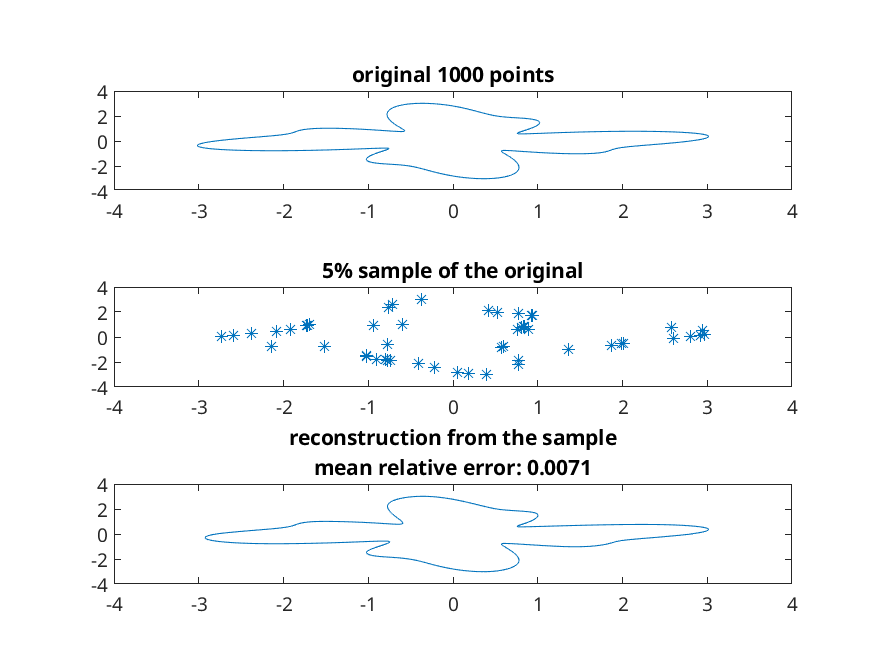
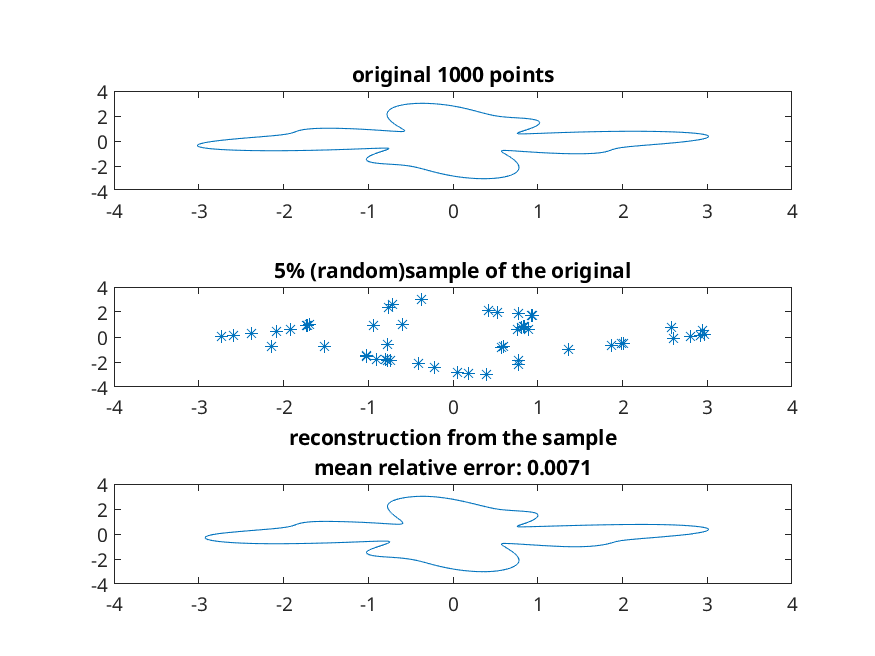
up

Changed region(s): [[0.3086, 0.3963, 0.7406, 0.4268]]

diff --git a/store/interpol/concepts_draft.html b/store/interpol/concepts_draft.html
@@ -6,7 +6,7 @@
 
 <meta name="viewport" content="width=device-width, initial-scale=1.0, user-scalable=yes">
 
-<meta name="dcterms.date" content="2026-03-19">
+<meta name="dcterms.date" content="2026-03-21">
 
 <title>interpolation/concepts_draft – eduhub</title>
 <style>
@@ -247,7 +247,7 @@ window.Quarto = {
     <div>
     <div class="quarto-title-meta-heading">Published</div>
     <div class="quarto-title-meta-contents">
-      <p class="date">March 19, 2026</p>
+      <p class="date">March 21, 2026</p>
     </div>
   </div>
   
@@ -1090,82 +1090,159 @@ t\in [a,b]
 <li>a Hermite problem <span class="math inline">t_1,t_2,f_1,f_2,f'_1,f'_2</span> is cubic spline problem for one-interval. it can be solved by a simple call of <code>spline</code>. (at least the evaluation part)</li>
 </ul>
 <div class="callout callout-style-simple callout-none no-icon callout-titled">
-<div class="callout-header d-flex align-content-center collapsed" data-bs-toggle="collapse" data-bs-target=".callout-25-contents" aria-controls="callout-25" aria-expanded="false" aria-label="Toggle callout">
+<div class="callout-header d-flex align-content-center collapsed" data-bs-toggle="collapse" data-bs-target=".callout-26-contents" aria-controls="callout-26" aria-expanded="false" aria-label="Toggle callout">
 <div class="callout-icon-container">
 <i class="callout-icon no-icon"></i>
 </div>
 <div class="callout-title-container flex-fill">
-<span class="screen-reader-only">None</span>a surprising application (of splines)
+<span class="screen-reader-only">None</span>application
 </div>
 <div class="callout-btn-toggle d-inline-block border-0 py-1 ps-1 pe-0 float-end"><i class="callout-toggle"></i></div>
 </div>
-<div id="callout-25" class="callout-25-contents callout-collapse collapse">
+<div id="callout-26" class="callout-26-contents callout-collapse collapse">
 <div class="callout-body-container callout-body">
 <ul>
-<li>what is happening here :o ? try to find out…</li>
-<li>(reconstruct 2d parametric curve from a small sample)</li>
+<li>reconstruct a rotated ellipse from a few regularly sampled points using splines</li>
 </ul>
-<p><img src="splineRECOVER.png" class="img-fluid" style="width:90.0%"></p>
+<p><img src="splineREC0.png" class="img-fluid" style="width:90.0%"></p>
 <div class="callout callout-style-simple callout-none no-icon callout-titled">
 <div class="callout-header d-flex align-content-center collapsed" data-bs-toggle="collapse" data-bs-target=".callout-24-contents" aria-controls="callout-24" aria-expanded="false" aria-label="Toggle callout">
 <div class="callout-icon-container">
 <i class="callout-icon no-icon"></i>
 </div>
 <div class="callout-title-container flex-fill">
-<span class="screen-reader-only">None</span>the code used
+<span class="screen-reader-only">None</span>code
 </div>
 <div class="callout-btn-toggle d-inline-block border-0 py-1 ps-1 pe-0 float-end"><i class="callout-toggle"></i></div>
 </div>
 <div id="callout-24" class="callout-24-contents callout-collapse collapse">
 <div class="callout-body-container callout-body">
 <div class="code-copy-outer-scaffold"><div class="sourceCode" id="cb7"><pre class="sourceCode matlab code-with-copy"><code class="sourceCode matlab"><span id="cb7-1"><a href="#cb7-1" aria-hidden="true" tabindex="-1"></a></span>
-<span id="cb7-2"><a href="#cb7-2" aria-hidden="true" tabindex="-1"></a><span class="va">clc</span><span class="op">;</span> <span class="va">clf</span><span class="op">;</span> <span class="va">clear</span><span class="op">;</span><span class="va">format</span><span class="op">;</span></span>
+<span id="cb7-2"><a href="#cb7-2" aria-hidden="true" tabindex="-1"></a><span class="va">clc</span><span class="op">;</span> <span class="va">clf</span><span class="op">;</span> <span class="va">clear</span><span class="op">;</span> <span class="va">format</span><span class="op">;</span></span>
 <span id="cb7-3"><a href="#cb7-3" aria-hidden="true" tabindex="-1"></a><span class="va">hold</span> <span class="va">on</span><span class="op">;</span></span>
 <span id="cb7-4"><a href="#cb7-4" aria-hidden="true" tabindex="-1"></a><span class="va">rng</span>(<span class="fl">22</span>)<span class="op">;</span></span>
 <span id="cb7-5"><a href="#cb7-5" aria-hidden="true" tabindex="-1"></a></span>
 <span id="cb7-6"><a href="#cb7-6" aria-hidden="true" tabindex="-1"></a><span class="co">% create the initial plot</span></span>
-<span id="cb7-7"><a href="#cb7-7" aria-hidden="true" tabindex="-1"></a><span class="co">% it'll be a circle + sin "noise"</span></span>
+<span id="cb7-7"><a href="#cb7-7" aria-hidden="true" tabindex="-1"></a><span class="co">% init: rotated ellipse</span></span>
 <span id="cb7-8"><a href="#cb7-8" aria-hidden="true" tabindex="-1"></a></span>
-<span id="cb7-9"><a href="#cb7-9" aria-hidden="true" tabindex="-1"></a><span class="va">N</span><span class="op">=</span><span class="fl">1000</span><span class="op">;</span></span>
-<span id="cb7-10"><a href="#cb7-10" aria-hidden="true" tabindex="-1"></a><span class="va">alpha</span><span class="op">=</span><span class="va">linspace</span>(<span class="fl">0</span><span class="op">,</span><span class="fl">2</span><span class="op">*</span><span class="va">pi</span><span class="op">,</span><span class="va">N</span>)<span class="op">;</span></span>
-<span id="cb7-11"><a href="#cb7-11" aria-hidden="true" tabindex="-1"></a><span class="va">r</span><span class="op">=</span><span class="fl">2</span><span class="op">+</span><span class="fl">0.4</span><span class="op">*</span><span class="va">sin</span>(<span class="fl">8</span><span class="op">*</span><span class="va">alpha</span>)<span class="op">+</span><span class="fl">0.8</span><span class="op">*</span><span class="va">cos</span>(<span class="fl">4</span><span class="op">*</span><span class="va">alpha</span>)<span class="op">;</span></span>
-<span id="cb7-12"><a href="#cb7-12" aria-hidden="true" tabindex="-1"></a><span class="va">x</span><span class="op">=</span><span class="va">r</span><span class="op">.*</span><span class="va">cos</span>(<span class="va">alpha</span>)<span class="op">;</span></span>
-<span id="cb7-13"><a href="#cb7-13" aria-hidden="true" tabindex="-1"></a><span class="va">y</span><span class="op">=</span><span class="va">r</span><span class="op">.*</span><span class="va">sin</span>(<span class="va">alpha</span>)<span class="op">;</span></span>
-<span id="cb7-14"><a href="#cb7-14" aria-hidden="true" tabindex="-1"></a><span class="va">subplot</span>(<span class="fl">3</span><span class="op">,</span><span class="fl">1</span><span class="op">,</span><span class="fl">1</span>)<span class="op">;</span></span>
-<span id="cb7-15"><a href="#cb7-15" aria-hidden="true" tabindex="-1"></a><span class="va">plot</span>(<span class="va">x</span><span class="op">,</span><span class="va">y</span>)</span>
-<span id="cb7-16"><a href="#cb7-16" aria-hidden="true" tabindex="-1"></a><span class="va">title</span>(<span class="va">sprintf</span>(<span class="st">"original %d points"</span><span class="op">,</span><span class="va">N</span>))</span>
-<span id="cb7-17"><a href="#cb7-17" aria-hidden="true" tabindex="-1"></a><span class="va">axis</span>([<span class="op">-</span><span class="fl">4</span><span class="op">,</span><span class="fl">4</span><span class="op">,-</span><span class="fl">4</span><span class="op">,</span><span class="fl">4</span>])<span class="op">;</span></span>
-<span id="cb7-18"><a href="#cb7-18" aria-hidden="true" tabindex="-1"></a><span class="va">percent</span><span class="op">=</span><span class="fl">5</span><span class="op">;</span></span>
-<span id="cb7-19"><a href="#cb7-19" aria-hidden="true" tabindex="-1"></a><span class="va">part</span><span class="op">=</span>[<span class="fl">1</span><span class="op">,</span><span class="va">datasample</span>(<span class="fl">2</span><span class="op">:</span><span class="va">N</span><span class="op">,</span><span class="va">floor</span>(<span class="va">percent</span><span class="op">/</span><span class="fl">100</span><span class="op">*</span><span class="va">N</span>)<span class="op">,</span><span class="st">"Replace"</span><span class="op">,</span><span class="va">false</span>)]<span class="op">;</span></span>
-<span id="cb7-20"><a href="#cb7-20" aria-hidden="true" tabindex="-1"></a><span class="va">alpha0</span><span class="op">=</span><span class="va">alpha</span>(<span class="va">part</span>)<span class="op">;</span></span>
-<span id="cb7-21"><a href="#cb7-21" aria-hidden="true" tabindex="-1"></a><span class="va">r0</span><span class="op">=</span><span class="va">r</span>(<span class="va">part</span>)<span class="op">;</span></span>
-<span id="cb7-22"><a href="#cb7-22" aria-hidden="true" tabindex="-1"></a><span class="va">x0</span><span class="op">=</span><span class="va">r0</span><span class="op">.*</span><span class="va">cos</span>(<span class="va">alpha0</span>)<span class="op">;</span></span>
-<span id="cb7-23"><a href="#cb7-23" aria-hidden="true" tabindex="-1"></a><span class="va">y0</span><span class="op">=</span><span class="va">r0</span><span class="op">.*</span><span class="va">sin</span>(<span class="va">alpha0</span>)<span class="op">;</span></span>
-<span id="cb7-24"><a href="#cb7-24" aria-hidden="true" tabindex="-1"></a><span class="va">subplot</span>(<span class="fl">3</span><span class="op">,</span><span class="fl">1</span><span class="op">,</span><span class="fl">2</span>)<span class="op">;</span></span>
-<span id="cb7-25"><a href="#cb7-25" aria-hidden="true" tabindex="-1"></a><span class="va">plot</span>(<span class="va">x0</span><span class="op">,</span><span class="va">y0</span><span class="op">,</span><span class="ss">'*'</span>)</span>
-<span id="cb7-26"><a href="#cb7-26" aria-hidden="true" tabindex="-1"></a><span class="va">title</span>(<span class="va">sprintf</span>(<span class="st">"%d%% sample of the original"</span><span class="op">,</span><span class="va">percent</span>))</span>
-<span id="cb7-27"><a href="#cb7-27" aria-hidden="true" tabindex="-1"></a><span class="va">axis</span>([<span class="op">-</span><span class="fl">4</span><span class="op">,</span><span class="fl">4</span><span class="op">,-</span><span class="fl">4</span><span class="op">,</span><span class="fl">4</span>])<span class="op">;</span></span>
-<span id="cb7-28"><a href="#cb7-28" aria-hidden="true" tabindex="-1"></a></span>
-<span id="cb7-29"><a href="#cb7-29" aria-hidden="true" tabindex="-1"></a><span class="va">x1</span><span class="op">=</span><span class="va">spline</span>(<span class="va">alpha0</span><span class="op">,</span><span class="va">x0</span><span class="op">,</span><span class="va">alpha</span>)<span class="op">;</span></span>
-<span id="cb7-30"><a href="#cb7-30" aria-hidden="true" tabindex="-1"></a><span class="va">y1</span><span class="op">=</span><span class="va">spline</span>(<span class="va">alpha0</span><span class="op">,</span><span class="va">y0</span><span class="op">,</span><span class="va">alpha</span>)<span class="op">;</span></span>
-<span id="cb7-31"><a href="#cb7-31" aria-hidden="true" tabindex="-1"></a><span class="va">subplot</span>(<span class="fl">3</span><span class="op">,</span><span class="fl">1</span><span class="op">,</span><span class="fl">3</span>)<span class="op">;</span></span>
-<span id="cb7-32"><a href="#cb7-32" aria-hidden="true" tabindex="-1"></a><span class="va">plot</span>(<span class="va">x1</span><span class="op">,</span><span class="va">y1</span>)</span>
-<span id="cb7-33"><a href="#cb7-33" aria-hidden="true" tabindex="-1"></a><span class="va">av_rel_err</span><span class="op">=</span><span class="va">sum</span>(<span class="va">sqrt</span>((<span class="va">x</span><span class="op">-</span><span class="va">x1</span>)<span class="op">.^</span><span class="fl">2</span><span class="op">+</span>(<span class="va">y</span><span class="op">-</span><span class="va">y1</span>)<span class="op">.^</span><span class="fl">2</span>)<span class="op">./</span><span class="va">sqrt</span>(<span class="va">x</span><span class="op">.^</span><span class="fl">2</span><span class="op">+</span><span class="va">y</span><span class="op">.^</span><span class="fl">2</span>))<span class="op">/</span><span class="va">N</span><span class="op">;</span></span>
-<span id="cb7-34"><a href="#cb7-34" aria-hidden="true" tabindex="-1"></a><span class="va">tit</span><span class="op">=</span><span class="st">"reconstruction from the sample"</span><span class="op">+...</span></span>
-<span id="cb7-35"><a href="#cb7-35" aria-hidden="true" tabindex="-1"></a>  <span class="va">sprintf</span>(<span class="st">"\nmean relative error: %.4f"</span><span class="op">,</span><span class="va">av_rel_err</span>)<span class="op">;</span></span>
-<span id="cb7-36"><a href="#cb7-36" aria-hidden="true" tabindex="-1"></a><span class="va">title</span>(<span class="va">tit</span>)<span class="op">;</span></span>
-<span id="cb7-37"><a href="#cb7-37" aria-hidden="true" tabindex="-1"></a><span class="va">axis</span>([<span class="op">-</span><span class="fl">4</span><span class="op">,</span><span class="fl">4</span><span class="op">,-</span><span class="fl">4</span><span class="op">,</span><span class="fl">4</span>])<span class="op">;</span></span>
+<span id="cb7-9"><a href="#cb7-9" aria-hidden="true" tabindex="-1"></a></span>
+<span id="cb7-10"><a href="#cb7-10" aria-hidden="true" tabindex="-1"></a><span class="va">fi</span><span class="op">=</span><span class="va">pi</span><span class="op">/</span><span class="fl">6</span><span class="op">;</span> <span class="co">% rot angle</span></span>
+<span id="cb7-11"><a href="#cb7-11" aria-hidden="true" tabindex="-1"></a><span class="va">zfun</span><span class="op">=@</span>(<span class="va">a</span>) (<span class="va">cos</span>(<span class="va">fi</span>)<span class="op">+</span><span class="fl">1i</span><span class="op">*</span><span class="va">sin</span>(<span class="va">fi</span>))<span class="op">*</span>(<span class="fl">4</span><span class="op">*</span><span class="va">cos</span>(<span class="va">a</span>)<span class="op">+</span><span class="fl">1i</span><span class="op">*</span><span class="va">sin</span>(<span class="va">a</span>))<span class="op">;</span></span>
+<span id="cb7-12"><a href="#cb7-12" aria-hidden="true" tabindex="-1"></a><span class="va">ax0</span><span class="op">=</span>[<span class="op">-</span><span class="fl">5</span><span class="op">,</span><span class="fl">5</span><span class="op">,-</span><span class="fl">3</span><span class="op">,</span><span class="fl">3</span>]<span class="op">;</span></span>
+<span id="cb7-13"><a href="#cb7-13" aria-hidden="true" tabindex="-1"></a><span class="va">N0</span><span class="op">=</span><span class="fl">5</span><span class="op">;</span></span>
+<span id="cb7-14"><a href="#cb7-14" aria-hidden="true" tabindex="-1"></a></span>
+<span id="cb7-15"><a href="#cb7-15" aria-hidden="true" tabindex="-1"></a></span>
+<span id="cb7-16"><a href="#cb7-16" aria-hidden="true" tabindex="-1"></a><span class="va">N</span><span class="op">=</span><span class="fl">100</span><span class="op">;</span></span>
+<span id="cb7-17"><a href="#cb7-17" aria-hidden="true" tabindex="-1"></a><span class="va">alpha</span><span class="op">=</span><span class="va">linspace</span>(<span class="fl">0</span><span class="op">,</span><span class="fl">2</span><span class="op">*</span><span class="va">pi</span><span class="op">,</span><span class="va">N</span>)<span class="op">';</span></span>
+<span id="cb7-18"><a href="#cb7-18" aria-hidden="true" tabindex="-1"></a><span class="va">z</span><span class="op">=</span><span class="va">zfun</span>(<span class="va">alpha</span>)<span class="op">;</span></span>
+<span id="cb7-19"><a href="#cb7-19" aria-hidden="true" tabindex="-1"></a><span class="va">x</span><span class="op">=</span><span class="va">real</span>(<span class="va">z</span>)<span class="op">;</span></span>
+<span id="cb7-20"><a href="#cb7-20" aria-hidden="true" tabindex="-1"></a><span class="va">y</span><span class="op">=</span><span class="va">imag</span>(<span class="va">z</span>)<span class="op">;</span></span>
+<span id="cb7-21"><a href="#cb7-21" aria-hidden="true" tabindex="-1"></a></span>
+<span id="cb7-22"><a href="#cb7-22" aria-hidden="true" tabindex="-1"></a><span class="va">subplot</span>(<span class="fl">3</span><span class="op">,</span><span class="fl">1</span><span class="op">,</span><span class="fl">1</span>)<span class="op">;</span></span>
+<span id="cb7-23"><a href="#cb7-23" aria-hidden="true" tabindex="-1"></a><span class="va">plot</span>(<span class="va">x</span><span class="op">,</span><span class="va">y</span>)</span>
+<span id="cb7-24"><a href="#cb7-24" aria-hidden="true" tabindex="-1"></a><span class="va">title</span>(<span class="va">sprintf</span>(<span class="st">"original %d points"</span><span class="op">,</span><span class="va">N</span>))</span>
+<span id="cb7-25"><a href="#cb7-25" aria-hidden="true" tabindex="-1"></a></span>
+<span id="cb7-26"><a href="#cb7-26" aria-hidden="true" tabindex="-1"></a><span class="va">axis</span>(<span class="va">ax0</span>)<span class="op">;</span></span>
+<span id="cb7-27"><a href="#cb7-27" aria-hidden="true" tabindex="-1"></a><span class="va">axis</span> <span class="va">equal</span><span class="op">;</span></span>
+<span id="cb7-28"><a href="#cb7-28" aria-hidden="true" tabindex="-1"></a><span class="va">alpha0</span><span class="op">=</span><span class="va">linspace</span>(<span class="fl">0</span><span class="op">,</span><span class="fl">2</span><span class="op">*</span><span class="va">pi</span><span class="op">,</span><span class="va">N0</span><span class="op">+</span><span class="fl">1</span>)<span class="op">;</span></span>
+<span id="cb7-29"><a href="#cb7-29" aria-hidden="true" tabindex="-1"></a><span class="va">z0</span><span class="op">=</span><span class="va">zfun</span>(<span class="va">alpha0</span>)<span class="op">;</span></span>
+<span id="cb7-30"><a href="#cb7-30" aria-hidden="true" tabindex="-1"></a><span class="va">x0</span><span class="op">=</span><span class="va">real</span>(<span class="va">z0</span>)<span class="op">;</span></span>
+<span id="cb7-31"><a href="#cb7-31" aria-hidden="true" tabindex="-1"></a><span class="va">y0</span><span class="op">=</span><span class="va">imag</span>(<span class="va">z0</span>)<span class="op">;</span></span>
+<span id="cb7-32"><a href="#cb7-32" aria-hidden="true" tabindex="-1"></a></span>
+<span id="cb7-33"><a href="#cb7-33" aria-hidden="true" tabindex="-1"></a><span class="va">subplot</span>(<span class="fl">3</span><span class="op">,</span><span class="fl">1</span><span class="op">,</span><span class="fl">2</span>)<span class="op">;</span></span>
+<span id="cb7-34"><a href="#cb7-34" aria-hidden="true" tabindex="-1"></a><span class="va">plot</span>(<span class="va">x0</span><span class="op">,</span><span class="va">y0</span><span class="op">,</span><span class="ss">'*'</span>)</span>
+<span id="cb7-35"><a href="#cb7-35" aria-hidden="true" tabindex="-1"></a><span class="va">title</span>(<span class="va">sprintf</span>(<span class="st">"%d points from the original"</span><span class="op">,</span><span class="va">N0</span>))</span>
+<span id="cb7-36"><a href="#cb7-36" aria-hidden="true" tabindex="-1"></a><span class="va">axis</span>(<span class="va">ax0</span>)<span class="op">;</span></span>
+<span id="cb7-37"><a href="#cb7-37" aria-hidden="true" tabindex="-1"></a><span class="va">axis</span> <span class="va">equal</span><span class="op">;</span></span>
 <span id="cb7-38"><a href="#cb7-38" aria-hidden="true" tabindex="-1"></a></span>
-<span id="cb7-39"><a href="#cb7-39" aria-hidden="true" tabindex="-1"></a><span class="va">saveas</span>(<span class="va">gca</span>()<span class="op">,</span><span class="st">"splineRECOVER.png"</span><span class="op">,</span><span class="st">"png"</span>)<span class="op">;</span></span>
-<span id="cb7-40"><a href="#cb7-40" aria-hidden="true" tabindex="-1"></a></span>
-<span id="cb7-41"><a href="#cb7-41" aria-hidden="true" tabindex="-1"></a></span>
-<span id="cb7-42"><a href="#cb7-42" aria-hidden="true" tabindex="-1"></a></span>
-<span id="cb7-43"><a href="#cb7-43" aria-hidden="true" tabindex="-1"></a></span>
-<span id="cb7-44"><a href="#cb7-44" aria-hidden="true" tabindex="-1"></a></span>
-<span id="cb7-45"><a href="#cb7-45" aria-hidden="true" tabindex="-1"></a></span>
-<span id="cb7-46"><a href="#cb7-46" aria-hidden="true" tabindex="-1"></a></span>
-<span id="cb7-47"><a href="#cb7-47" aria-hidden="true" tabindex="-1"></a><span class="va">hold</span> <span class="va">off</span><span class="op">;</span></span>
-<span id="cb7-48"><a href="#cb7-48" aria-hidden="true" tabindex="-1"></a></span></code></pre></div><button title="Copy to Clipboard" class="code-copy-button"><i class="bi"></i></button></div>
+<span id="cb7-39"><a href="#cb7-39" aria-hidden="true" tabindex="-1"></a><span class="va">x1</span><span class="op">=</span><span class="va">spline</span>(<span class="va">alpha0</span><span class="op">,</span><span class="va">x0</span><span class="op">,</span><span class="va">alpha</span>)<span class="op">;</span></span>
+<span id="cb7-40"><a href="#cb7-40" aria-hidden="true" tabindex="-1"></a><span class="va">y1</span><span class="op">=</span><span class="va">spline</span>(<span class="va">alpha0</span><span class="op">,</span><span class="va">y0</span><span class="op">,</span><span class="va">alpha</span>)<span class="op">;</span></span>
+<span id="cb7-41"><a href="#cb7-41" aria-hidden="true" tabindex="-1"></a><span class="va">subplot</span>(<span class="fl">3</span><span class="op">,</span><span class="fl">1</span><span class="op">,</span><span class="fl">3</span>)<span class="op">;</span></span>
+<span id="cb7-42"><a href="#cb7-42" aria-hidden="true" tabindex="-1"></a><span class="va">plot</span>(<span class="va">x1</span><span class="op">,</span><span class="va">y1</span>)</span>
+<span id="cb7-43"><a href="#cb7-43" aria-hidden="true" tabindex="-1"></a><span class="va">av_rel_err</span><span class="op">=</span><span class="va">sum</span>(<span class="va">sqrt</span>((<span class="va">x</span><span class="op">-</span><span class="va">x1</span>)<span class="op">.^</span><span class="fl">2</span><span class="op">+</span>(<span class="va">y</span><span class="op">-</span><span class="va">y1</span>)<span class="op">.^</span><span class="fl">2</span>)<span class="op">./</span><span class="va">sqrt</span>(<span class="va">x</span><span class="op">.^</span><span class="fl">2</span><span class="op">+</span><span class="va">y</span><span class="op">.^</span><span class="fl">2</span>))<span class="op">/</span><span class="va">N</span><span class="op">;</span></span>
+<span id="cb7-44"><a href="#cb7-44" aria-hidden="true" tabindex="-1"></a><span class="va">tit</span><span class="op">=</span><span class="st">"reconstruction from the sample"</span><span class="op">+...</span></span>
+<span id="cb7-45"><a href="#cb7-45" aria-hidden="true" tabindex="-1"></a>  <span class="va">sprintf</span>(<span class="st">"\nmean relative error: %.4f"</span><span class="op">,</span><span class="va">av_rel_err</span>)<span class="op">;</span></span>
+<span id="cb7-46"><a href="#cb7-46" aria-hidden="true" tabindex="-1"></a><span class="va">title</span>(<span class="va">tit</span>)<span class="op">;</span></span>
+<span id="cb7-47"><a href="#cb7-47" aria-hidden="true" tabindex="-1"></a><span class="va">axis</span>(<span class="va">ax0</span>)<span class="op">;</span></span>
+<span id="cb7-48"><a href="#cb7-48" aria-hidden="true" tabindex="-1"></a><span class="va">axis</span> <span class="va">equal</span><span class="op">;</span></span>
+<span id="cb7-49"><a href="#cb7-49" aria-hidden="true" tabindex="-1"></a></span>
+<span id="cb7-50"><a href="#cb7-50" aria-hidden="true" tabindex="-1"></a><span class="va">saveas</span>(<span class="va">gca</span>()<span class="op">,</span><span class="st">"splineREC0.png"</span><span class="op">,</span><span class="st">"png"</span>)<span class="op">;</span></span>
+<span id="cb7-51"><a href="#cb7-51" aria-hidden="true" tabindex="-1"></a></span>
+<span id="cb7-52"><a href="#cb7-52" aria-hidden="true" tabindex="-1"></a></span>
+<span id="cb7-53"><a href="#cb7-53" aria-hidden="true" tabindex="-1"></a></span>
+<span id="cb7-54"><a href="#cb7-54" aria-hidden="true" tabindex="-1"></a></span>
+<span id="cb7-55"><a href="#cb7-55" aria-hidden="true" tabindex="-1"></a></span>
+<span id="cb7-56"><a href="#cb7-56" aria-hidden="true" tabindex="-1"></a></span>
+<span id="cb7-57"><a href="#cb7-57" aria-hidden="true" tabindex="-1"></a></span>
+<span id="cb7-58"><a href="#cb7-58" aria-hidden="true" tabindex="-1"></a><span class="va">hold</span> <span class="va">off</span><span class="op">;</span></span>
+<span id="cb7-59"><a href="#cb7-59" aria-hidden="true" tabindex="-1"></a></span></code></pre></div><button title="Copy to Clipboard" class="code-copy-button"><i class="bi"></i></button></div>
+</div>
+</div>
+</div>
+<ul>
+<li>reconstruct another parametric curve from randomly sampled points using splines</li>
+</ul>
+<p><img src="splineREC.png" class="img-fluid" style="width:90.0%"></p>
+<div class="callout callout-style-simple callout-none no-icon callout-titled">
+<div class="callout-header d-flex align-content-center collapsed" data-bs-toggle="collapse" data-bs-target=".callout-25-contents" aria-controls="callout-25" aria-expanded="false" aria-label="Toggle callout">
+<div class="callout-icon-container">
+<i class="callout-icon no-icon"></i>
+</div>
+<div class="callout-title-container flex-fill">
+<span class="screen-reader-only">None</span>code
+</div>
+<div class="callout-btn-toggle d-inline-block border-0 py-1 ps-1 pe-0 float-end"><i class="callout-toggle"></i></div>
+</div>
+<div id="callout-25" class="callout-25-contents callout-collapse collapse">
+<div class="callout-body-container callout-body">
+<div class="code-copy-outer-scaffold"><div class="sourceCode" id="cb8"><pre class="sourceCode matlab code-with-copy"><code class="sourceCode matlab"><span id="cb8-1"><a href="#cb8-1" aria-hidden="true" tabindex="-1"></a></span>
+<span id="cb8-2"><a href="#cb8-2" aria-hidden="true" tabindex="-1"></a><span class="va">clc</span><span class="op">;</span> <span class="va">clf</span><span class="op">;</span> <span class="va">clear</span><span class="op">;</span><span class="va">format</span><span class="op">;</span></span>
+<span id="cb8-3"><a href="#cb8-3" aria-hidden="true" tabindex="-1"></a><span class="va">hold</span> <span class="va">on</span><span class="op">;</span></span>
+<span id="cb8-4"><a href="#cb8-4" aria-hidden="true" tabindex="-1"></a><span class="va">rng</span>(<span class="fl">22</span>)<span class="op">;</span></span>
+<span id="cb8-5"><a href="#cb8-5" aria-hidden="true" tabindex="-1"></a></span>
+<span id="cb8-6"><a href="#cb8-6" aria-hidden="true" tabindex="-1"></a><span class="co">% create the initial plot</span></span>
+<span id="cb8-7"><a href="#cb8-7" aria-hidden="true" tabindex="-1"></a><span class="co">% it'll be a circle + sin/cos "noise"</span></span>
+<span id="cb8-8"><a href="#cb8-8" aria-hidden="true" tabindex="-1"></a></span>
+<span id="cb8-9"><a href="#cb8-9" aria-hidden="true" tabindex="-1"></a><span class="va">N</span><span class="op">=</span><span class="fl">1000</span><span class="op">;</span></span>
+<span id="cb8-10"><a href="#cb8-10" aria-hidden="true" tabindex="-1"></a><span class="va">alpha</span><span class="op">=</span><span class="va">linspace</span>(<span class="fl">0</span><span class="op">,</span><span class="fl">2</span><span class="op">*</span><span class="va">pi</span><span class="op">,</span><span class="va">N</span>)<span class="op">;</span></span>
+<span id="cb8-11"><a href="#cb8-11" aria-hidden="true" tabindex="-1"></a><span class="va">r</span><span class="op">=</span><span class="fl">2</span><span class="op">+</span><span class="fl">0.4</span><span class="op">*</span><span class="va">sin</span>(<span class="fl">8</span><span class="op">*</span><span class="va">alpha</span>)<span class="op">+</span><span class="fl">0.8</span><span class="op">*</span><span class="va">cos</span>(<span class="fl">4</span><span class="op">*</span><span class="va">alpha</span>)<span class="op">;</span></span>
+<span id="cb8-12"><a href="#cb8-12" aria-hidden="true" tabindex="-1"></a><span class="va">x</span><span class="op">=</span><span class="va">r</span><span class="op">.*</span><span class="va">cos</span>(<span class="va">alpha</span>)<span class="op">;</span></span>
+<span id="cb8-13"><a href="#cb8-13" aria-hidden="true" tabindex="-1"></a><span class="va">y</span><span class="op">=</span><span class="va">r</span><span class="op">.*</span><span class="va">sin</span>(<span class="va">alpha</span>)<span class="op">;</span></span>
+<span id="cb8-14"><a href="#cb8-14" aria-hidden="true" tabindex="-1"></a><span class="va">subplot</span>(<span class="fl">3</span><span class="op">,</span><span class="fl">1</span><span class="op">,</span><span class="fl">1</span>)<span class="op">;</span></span>
+<span id="cb8-15"><a href="#cb8-15" aria-hidden="true" tabindex="-1"></a><span class="va">plot</span>(<span class="va">x</span><span class="op">,</span><span class="va">y</span>)</span>
+<span id="cb8-16"><a href="#cb8-16" aria-hidden="true" tabindex="-1"></a><span class="va">title</span>(<span class="va">sprintf</span>(<span class="st">"original %d points"</span><span class="op">,</span><span class="va">N</span>))</span>
+<span id="cb8-17"><a href="#cb8-17" aria-hidden="true" tabindex="-1"></a><span class="va">axis</span>([<span class="op">-</span><span class="fl">4</span><span class="op">,</span><span class="fl">4</span><span class="op">,-</span><span class="fl">4</span><span class="op">,</span><span class="fl">4</span>])<span class="op">;</span></span>
+<span id="cb8-18"><a href="#cb8-18" aria-hidden="true" tabindex="-1"></a><span class="va">percent</span><span class="op">=</span><span class="fl">5</span><span class="op">;</span></span>
+<span id="cb8-19"><a href="#cb8-19" aria-hidden="true" tabindex="-1"></a><span class="va">part</span><span class="op">=</span>[<span class="fl">1</span><span class="op">,</span><span class="va">datasample</span>(<span class="fl">2</span><span class="op">:</span><span class="va">N</span><span class="op">,</span><span class="va">floor</span>(<span class="va">percent</span><span class="op">/</span><span class="fl">100</span><span class="op">*</span><span class="va">N</span>)<span class="op">,</span><span class="st">"Replace"</span><span class="op">,</span><span class="va">false</span>)]<span class="op">;</span></span>
+<span id="cb8-20"><a href="#cb8-20" aria-hidden="true" tabindex="-1"></a><span class="va">alpha0</span><span class="op">=</span><span class="va">alpha</span>(<span class="va">part</span>)<span class="op">;</span></span>
+<span id="cb8-21"><a href="#cb8-21" aria-hidden="true" tabindex="-1"></a><span class="va">r0</span><span class="op">=</span><span class="va">r</span>(<span class="va">part</span>)<span class="op">;</span></span>
+<span id="cb8-22"><a href="#cb8-22" aria-hidden="true" tabindex="-1"></a><span class="va">x0</span><span class="op">=</span><span class="va">r0</span><span class="op">.*</span><span class="va">cos</span>(<span class="va">alpha0</span>)<span class="op">;</span></span>
+<span id="cb8-23"><a href="#cb8-23" aria-hidden="true" tabindex="-1"></a><span class="va">y0</span><span class="op">=</span><span class="va">r0</span><span class="op">.*</span><span class="va">sin</span>(<span class="va">alpha0</span>)<span class="op">;</span></span>
+<span id="cb8-24"><a href="#cb8-24" aria-hidden="true" tabindex="-1"></a><span class="va">subplot</span>(<span class="fl">3</span><span class="op">,</span><span class="fl">1</span><span class="op">,</span><span class="fl">2</span>)<span class="op">;</span></span>
+<span id="cb8-25"><a href="#cb8-25" aria-hidden="true" tabindex="-1"></a><span class="va">plot</span>(<span class="va">x0</span><span class="op">,</span><span class="va">y0</span><span class="op">,</span><span class="ss">'*'</span>)</span>
+<span id="cb8-26"><a href="#cb8-26" aria-hidden="true" tabindex="-1"></a><span class="va">title</span>(<span class="va">sprintf</span>(<span class="st">"%d%% (random)sample of the original"</span><span class="op">,</span><span class="va">percent</span>))</span>
+<span id="cb8-27"><a href="#cb8-27" aria-hidden="true" tabindex="-1"></a><span class="va">axis</span>([<span class="op">-</span><span class="fl">4</span><span class="op">,</span><span class="fl">4</span><span class="op">,-</span><span class="fl">4</span><span class="op">,</span><span class="fl">4</span>])<span class="op">;</span></span>
+<span id="cb8-28"><a href="#cb8-28" aria-hidden="true" tabindex="-1"></a></span>
+<span id="cb8-29"><a href="#cb8-29" aria-hidden="true" tabindex="-1"></a><span class="va">x1</span><span class="op">=</span><span class="va">spline</span>(<span class="va">alpha0</span><span class="op">,</span><span class="va">x0</span><span class="op">,</span><span class="va">alpha</span>)<span class="op">;</span></span>
+<span id="cb8-30"><a href="#cb8-30" aria-hidden="true" tabindex="-1"></a><span class="va">y1</span><span class="op">=</span><span class="va">spline</span>(<span class="va">alpha0</span><span class="op">,</span><span class="va">y0</span><span class="op">,</span><span class="va">alpha</span>)<span class="op">;</span></span>
+<span id="cb8-31"><a href="#cb8-31" aria-hidden="true" tabindex="-1"></a><span class="va">subplot</span>(<span class="fl">3</span><span class="op">,</span><span class="fl">1</span><span class="op">,</span><span class="fl">3</span>)<span class="op">;</span></span>
+<span id="cb8-32"><a href="#cb8-32" aria-hidden="true" tabindex="-1"></a><span class="va">plot</span>(<span class="va">x1</span><span class="op">,</span><span class="va">y1</span>)</span>
+<span id="cb8-33"><a href="#cb8-33" aria-hidden="true" tabindex="-1"></a><span class="va">av_rel_err</span><span class="op">=</span><span class="va">sum</span>(<span class="va">sqrt</span>((<span class="va">x</span><span class="op">-</span><span class="va">x1</span>)<span class="op">.^</span><span class="fl">2</span><span class="op">+</span>(<span class="va">y</span><span class="op">-</span><span class="va">y1</span>)<span class="op">.^</span><span class="fl">2</span>)<span class="op">./</span><span class="va">sqrt</span>(<span class="va">x</span><span class="op">.^</span><span class="fl">2</span><span class="op">+</span><span class="va">y</span><span class="op">.^</span><span class="fl">2</span>))<span class="op">/</span><span class="va">N</span><span class="op">;</span></span>
+<span id="cb8-34"><a href="#cb8-34" aria-hidden="true" tabindex="-1"></a><span class="va">tit</span><span class="op">=</span><span class="st">"reconstruction from the sample"</span><span class="op">+...</span></span>
+<span id="cb8-35"><a href="#cb8-35" aria-hidden="true" tabindex="-1"></a>  <span class="va">sprintf</span>(<span class="st">"\nmean relative error: %.4f"</span><span class="op">,</span><span class="va">av_rel_err</span>)<span class="op">;</span></span>
+<span id="cb8-36"><a href="#cb8-36" aria-hidden="true" tabindex="-1"></a><span class="va">title</span>(<span class="va">tit</span>)<span class="op">;</span></span>
+<span id="cb8-37"><a href="#cb8-37" aria-hidden="true" tabindex="-1"></a><span class="va">axis</span>([<span class="op">-</span><span class="fl">4</span><span class="op">,</span><span class="fl">4</span><span class="op">,-</span><span class="fl">4</span><span class="op">,</span><span class="fl">4</span>])<span class="op">;</span></span>
+<span id="cb8-38"><a href="#cb8-38" aria-hidden="true" tabindex="-1"></a></span>
+<span id="cb8-39"><a href="#cb8-39" aria-hidden="true" tabindex="-1"></a><span class="va">saveas</span>(<span class="va">gca</span>()<span class="op">,</span><span class="st">"splineREC.png"</span><span class="op">,</span><span class="st">"png"</span>)<span class="op">;</span></span>
+<span id="cb8-40"><a href="#cb8-40" aria-hidden="true" tabindex="-1"></a></span>
+<span id="cb8-41"><a href="#cb8-41" aria-hidden="true" tabindex="-1"></a></span>
+<span id="cb8-42"><a href="#cb8-42" aria-hidden="true" tabindex="-1"></a></span>
+<span id="cb8-43"><a href="#cb8-43" aria-hidden="true" tabindex="-1"></a></span>
+<span id="cb8-44"><a href="#cb8-44" aria-hidden="true" tabindex="-1"></a></span>
+<span id="cb8-45"><a href="#cb8-45" aria-hidden="true" tabindex="-1"></a></span>
+<span id="cb8-46"><a href="#cb8-46" aria-hidden="true" tabindex="-1"></a></span>
+<span id="cb8-47"><a href="#cb8-47" aria-hidden="true" tabindex="-1"></a><span class="va">hold</span> <span class="va">off</span><span class="op">;</span></span>
+<span id="cb8-48"><a href="#cb8-48" aria-hidden="true" tabindex="-1"></a></span></code></pre></div><button title="Copy to Clipboard" class="code-copy-button"><i class="bi"></i></button></div>
 </div>
 </div>
 </div>
